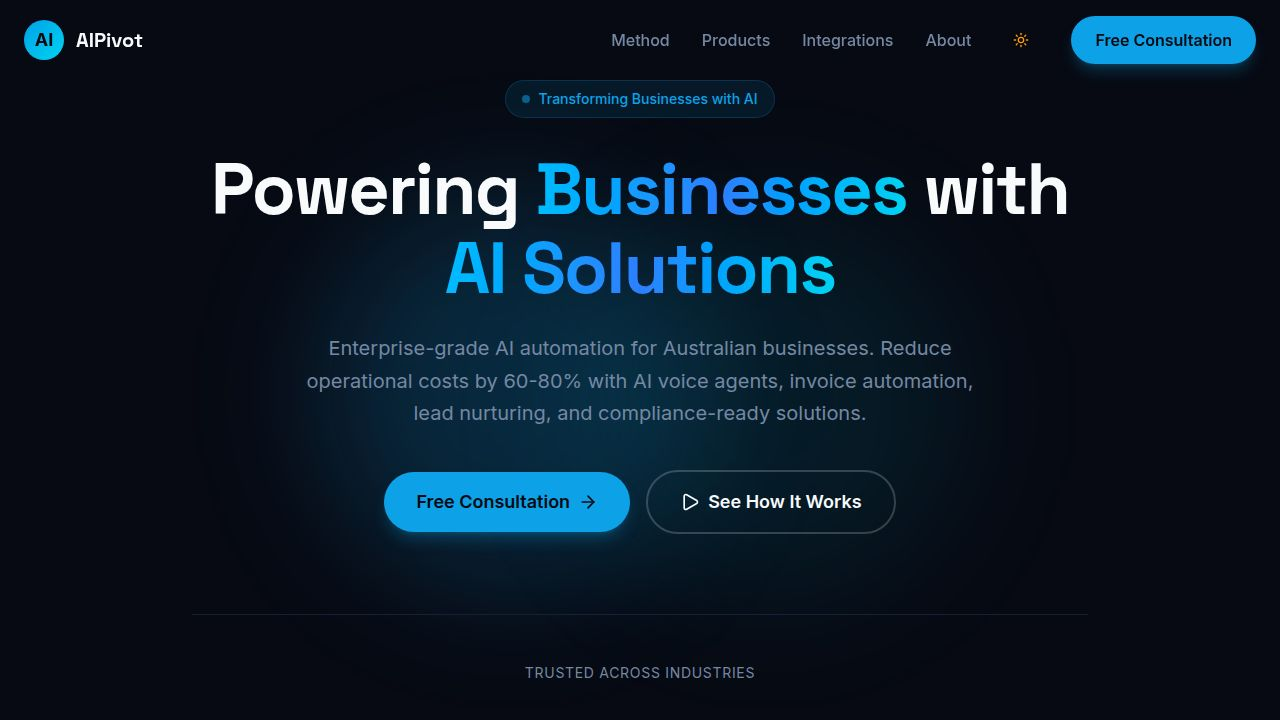
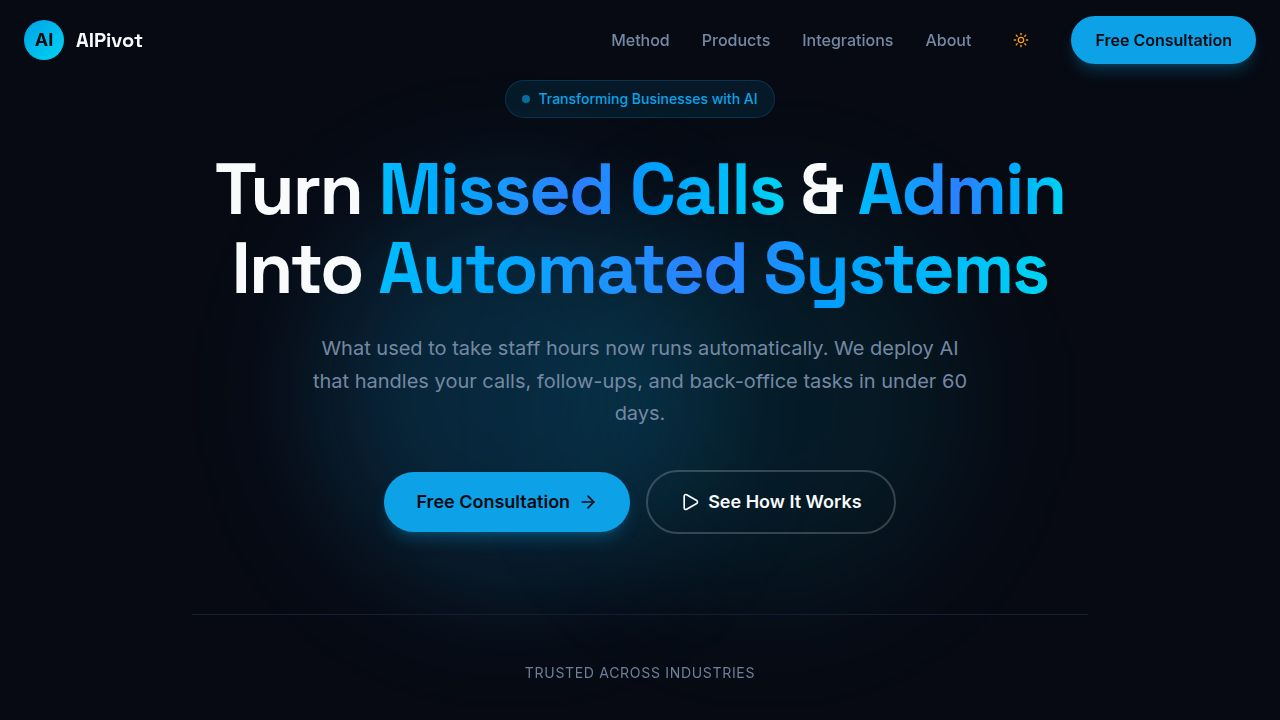
Improve website copy to highlight business transformation and automate tasks
Update meta tags, hero section, about section, contact section, and method section to reflect new messaging. Add Proof and Urgency sections.

Replit-Commit-Author: Agent
Replit-Commit-Session-Id: 616f7ec8-56b7-40ac-97c3-e25da8dbcfec
Replit-Commit-Checkpoint-Type: intermediate_checkpoint
Replit-Commit-Event-Id: bd99aacf-5318-4f4b-b167-25c7220fded0
Replit-Commit-Screenshot-Url: https://storage.googleapis.com/screenshot-production-us-central1/a4d2e7bf-6fef-4c84-ac98-2d1d1ffe8788/616f7ec8-56b7-40ac-97c3-e25da8dbcfec/9fGJEH8
Replit-Helium-Checkpoint-Created: true

Changed region(s): [[0.1562, 0.2139, 0.8438, 0.4278], [0.25, 0.4583, 0.75, 0.5806]]

diff --git a/client/src/components/sections/Proof.tsx b/client/src/components/sections/Proof.tsx
@@ -1,0 +1,134 @@
+import { motion } from "framer-motion";
+import { TrendingUp, Clock, PhoneCall, Building2 } from "lucide-react";
+
+const stats = [
+  {
+    icon: PhoneCall,
+    value: "12,000+",
+    label: "Calls handled monthly",
+    description: "Across client deployments"
+  },
+  {
+    icon: Clock,
+    value: "40hrs",
+    label: "Admin saved per week",
+    description: "Average per business"
+  },
+  {
+    icon: TrendingUp,
+    value: "90%",
+    label: "Reduction in errors",
+    description: "In automated processes"
+  },
+  {
+    icon: Building2,
+    value: "60 days",
+    label: "Average go-live time",
+    description: "From kickoff to deployment"
+  }
+];
+
+const caseStudies = [
+  {
+    industry: "Professional Services",
+    result: "Reduced admin workload by 35 hours per week",
+    detail: "Automated client intake, follow-ups, and appointment scheduling"
+  },
+  {
+    industry: "Real Estate Agency",
+    result: "Handling 400+ enquiries monthly without extra staff",
+    detail: "AI voice agent qualifying leads and booking inspections 24/7"
+  },
+  {
+    industry: "Healthcare Practice",
+    result: "Cut no-shows by 60% with automated reminders",
+    detail: "Integrated with existing practice management software"
+  }
+];
+
+const trustedSystems = [
+  "Salesforce", "HubSpot", "Zoho", "Google Workspace", "Microsoft 365", "Xero"
+];
+
+export function Proof() {
+  return (
+    <section className="py-24 bg-card" aria-labelledby="proof-heading">
+      <div className="container-main">
+        <motion.div 
+          className="text-center mb-16"
+          initial={{ opacity: 0, y: 20 }}
+          whileInView={{ opacity: 1, y: 0 }}
+          viewport={{ once: true }}
+        >
+          <h2 id="proof-heading" className="text-3xl sm:text-4xl lg:text-5xl font-bold text-foreground mb-4">
+            Real Results from Real Businesses
+          </h2>
+          <p className="text-xl text-muted-foreground max-w-2xl mx-auto">
+            Numbers from actual deployments across Australian businesses
+          </p>
+        </motion.div>
+
+        <div className="grid grid-cols-2 lg:grid-cols-4 gap-4 sm:gap-6 mb-16">
+          {stats.map((stat, i) => (
+            <motion.div
+              key={i}
+              className="p-6 rounded-2xl bg-background border border-border text-center"
+              initial={{ opacity: 0, y: 20 }}
+              whileInView={{ opacity: 1, y: 0 }}
+              viewport={{ once: true }}
+              transition={{ delay: i * 0.1 }}
+              data-testid={`stat-card-${i}`}
+            >
+              <stat.icon className="w-8 h-8 text-primary mx-auto mb-4" />
+              <div className="text-3xl sm:text-4xl font-bold gradient-text mb-2" data-testid={`stat-value-${i}`}>{stat.value}</div>
+              <div className="text-sm font-semibold text-foreground mb-1">{stat.label}</div>
+              <div className="text-xs text-muted-foreground">{stat.description}</div>
+            </motion.div>
+          ))}
+        </div>
+
+        <div className="grid md:grid-cols-3 gap-6 mb-16">
+          {caseStudies.map((study, i) => (
+            <motion.div
+              key={i}
+              className="p-6 rounded-2xl bg-background border border-border"
+              initial={{ opacity: 0, y: 20 }}
+              whileInView={{ opacity: 1, y: 0 }}
+              viewport={{ once: true }}
+              transition={{ delay: i * 0.1 }}
+              data-testid={`case-study-${i}`}
+            >
+              <div className="text-xs font-semibold text-primary uppercase tracking-wider mb-3" data-testid={`case-study-industry-${i}`}>
+                {study.industry}
+              </div>
+              <p className="text-lg font-bold text-foreground mb-3" data-testid={`case-study-result-${i}`}>
+                {study.result}
+              </p>
+              <p className="text-sm text-muted-foreground">
+                {study.detail}
+              </p>
+            </motion.div>
+          ))}
+        </div>
+
+        <motion.div
+          className="text-center"
+          initial={{ opacity: 0, y: 20 }}
+          whileInView={{ opacity: 1, y: 0 }}
+          viewport={{ once: true }}
+        >
+          <p className="text-sm text-muted-foreground mb-4">
+            Built on top of the systems businesses already trust
+          </p>
+          <div className="flex flex-wrap items-center justify-center gap-4 sm:gap-8">
+            {trustedSystems.map((system, i) => (
+              <span key={i} className="text-sm sm:text-base font-semibold text-foreground/60">
+                {system}
+              </span>
+            ))}
+          </div>
+        </motion.div>
+      </div>
+    </section>
+  );
+}

diff --git a/client/src/components/sections/About.tsx b/client/src/components/sections/About.tsx
@@ -1,5 +1,5 @@
 import { motion } from "framer-motion";
-import { CheckCircle2 } from "lucide-react";
+import { CheckCircle2, XCircle } from "lucide-react";
 
 const benefits = [
   "24/7 AI-powered customer engagement",
@@ -8,6 +8,12 @@ const benefits = [
   "Real-time analytics and insights",
   "Custom-trained on your business",
   "Dedicated support team"
+];
+
+const notForYou = [
+  "Early-stage businesses without defined workflows",
+  "Teams looking for a DIY chatbot tool",
+  "Businesses without existing systems to integrate"
 ];
 
 export function About() {
@@ -30,11 +36,9 @@ export function About() {
               Why Choose <span className="gradient-text">AIPivot</span>?
             </h2>
             <p className="text-xl text-muted-foreground mb-8 leading-relaxed" itemProp="description">
-              Australia's enterprise AI automation specialists. We deliver compliance-ready AI solutions 
-              that reduce operational costs by 60-80%. Our team builds AI voice agents, invoice automation, 
-              and lead nurturing systems that drive measurable business results.
+              We're not a software platform you log into. We're implementation specialists who build, deploy, and manage AI systems that work inside your business — integrated with the tools you already use.
             </p>
-            <div className="grid sm:grid-cols-2 gap-4">
+            <div className="grid sm:grid-cols-2 gap-4 mb-8">
               {benefits.map((benefit, i) => (
                 <div key={i} className="flex items-center gap-3">
                   <CheckCircle2 className="w-5 h-5 text-primary shrink-0" />
@@ -50,12 +54,24 @@ export function About() {
             whileInView={{ opacity: 1, x: 0 }}
             viewport={{ once: true }}
           >
-            <div className="aspect-square rounded-3xl bg-gradient-to-br from-primary/20 to-cyan-500/20 p-1">
-              <div className="w-full h-full rounded-3xl bg-background flex items-center justify-center">
-                <div className="text-center p-8">
-                  <div className="text-8xl font-bold gradient-text mb-4">AI</div>
-                  <div className="text-2xl font-bold text-foreground">Powered by Intelligence</div>
-                  <div className="text-muted-foreground mt-2">Built for Business</div>
+            <div className="rounded-3xl bg-gradient-to-br from-primary/20 to-cyan-500/20 p-1">
+              <div className="rounded-3xl bg-background p-8">
+                <h3 className="text-xl font-bold text-foreground mb-6">This is not for everyone</h3>
+                <p className="text-muted-foreground mb-6">
+                  We work best with established businesses that have real workflows to automate. If you're looking for a quick fix or DIY solution, we're probably not the right fit.
+                </p>
+                <div className="space-y-3">
+                  {notForYou.map((item, i) => (
+                    <div key={i} className="flex items-center gap-3" data-testid={`disqualifier-${i}`}>
+                      <XCircle className="w-5 h-5 text-muted-foreground shrink-0" />
+                      <span className="text-muted-foreground">{item}</span>
+                    </div>
+                  ))}
+                </div>
+                <div className="mt-6 pt-6 border-t border-border">
+                  <p className="text-sm text-foreground font-medium">
+                    We require existing business systems to integrate with (CRM, calendar, phone system, etc.)
+                  </p>
                 </div>
               </div>
             </div>

diff --git a/client/index.html b/client/index.html
@@ -4,8 +4,8 @@
     <meta charset="UTF-8" />
     <meta name="viewport" content="width=device-width, initial-scale=1.0, maximum-scale=5" />
     
-    <title>AIPivot | AI Automation Agency Australia | Enterprise Business Transformation</title>
-    <meta name="description" content="AIPivot delivers enterprise-grade AI automation for Australian businesses. Reduce operational costs by 60-80% with AI voice agents, invoice automation, lead nurturing, and compliance-ready AI solutions. Free consultation for operations directors and CFOs." />
+    <title>AIPivot | Turn Missed Calls & Admin Into Automated Systems | AI Automation Australia</title>
+    <meta name="description" content="What used to take staff hours now runs automatically. AIPivot deploys AI that handles your calls, follow-ups, and back-office tasks in under 60 days. Australian businesses reduce admin by 35+ hours per week." />
     <meta name="keywords" content="AI automation Australia, enterprise AI solutions, AI voice agents, invoice automation, business process automation, lead nurturing AI, compliance AI, AI receptionist, workflow automation, AI implementation Australia, Brisbane AI agency" />
     <meta name="author" content="AIPivot" />
     <meta name="robots" content="index, follow, max-image-preview:large, max-snippet:-1, max-video-preview:-1" />
@@ -16,8 +16,8 @@
     <meta name="geo.position" content="-27.4698;153.0251" />
     <meta name="ICBM" content="-27.4698, 153.0251" />
     
-    <meta property="og:title" content="AIPivot | AI Automation Agency Australia | Enterprise Business Transformation" />
-    <meta property="og:description" content="Reduce operational costs by 60-80% with enterprise-grade AI automation. AI voice agents, invoice automation, lead nurturing, and compliance-ready solutions for Australian businesses." />
+    <meta property="og:title" content="AIPivot | Turn Missed Calls & Admin Into Automated Systems" />
+    <meta property="og:description" content="What used to take staff hours now runs automatically. AI that handles your calls, follow-ups, and back-office tasks in under 60 days." />
     <meta property="og:type" content="website" />
     <meta property="og:url" content="https://aipivot.com.au/" />
     <meta property="og:site_name" content="AIPivot" />
@@ -30,8 +30,8 @@
     <meta name="twitter:card" content="summary_large_image" />
     <meta name="twitter:site" content="@replit" />
     <meta name="twitter:creator" content="@aipivot" />
-    <meta name="twitter:title" content="AIPivot | AI Automation Agency Australia" />
-    <meta name="twitter:description" content="Enterprise-grade AI automation for Australian businesses. AI voice agents, invoice automation, lead nurturing. Reduce costs by 60-80%." />
+    <meta name="twitter:title" content="AIPivot | Turn Missed Calls & Admin Into Automated Systems" />
+    <meta name="twitter:description" content="What used to take staff hours now runs automatically. AI that handles your calls, follow-ups, and back-office tasks in under 60 days." />
     <meta name="twitter:image" content="https://aipivot.com.au/opengraph.jpg" />
     
     <meta name="format-detection" content="telephone=no" />

diff --git a/client/src/components/sections/Contact.tsx b/client/src/components/sections/Contact.tsx
@@ -85,11 +85,31 @@ export function Contact() {
             viewport={{ once: true }}
           >
             <h2 id="contact-heading" className="text-3xl sm:text-4xl lg:text-5xl font-bold text-foreground mb-4">
-              Book a Free Consultation
+              Book Your Strategy Call
             </h2>
-            <p className="text-xl text-muted-foreground">
-              Schedule a meeting with our AI specialists to discuss how AI automation can reduce your operational costs by 60-80%
+            <p className="text-xl text-muted-foreground mb-6">
+              A 30-minute call to map out your automation opportunities
             </p>
+            <div className="bg-background/50 rounded-xl p-6 border border-border text-left max-w-md mx-auto" data-testid="contact-process-info">
+              <p className="text-sm font-semibold text-foreground mb-3">What happens on the call:</p>
+              <ul className="space-y-2 text-sm text-muted-foreground">
+                <li className="flex items-start gap-2" data-testid="call-step-0">
+                  <span className="text-primary mt-0.5">✓</span>
+                  <span>We review your current workflows and pain points</span>
+                </li>
+                <li className="flex items-start gap-2" data-testid="call-step-1">
+                  <span className="text-primary mt-0.5">✓</span>
+                  <span>You get a clear picture of what can be automated</span>
+                </li>
+                <li className="flex items-start gap-2" data-testid="call-step-2">
+                  <span className="text-primary mt-0.5">✓</span>
+                  <span>We provide a rough timeline and investment range</span>
+                </li>
+              </ul>
+              <p className="text-xs text-muted-foreground mt-4 pt-3 border-t border-border" data-testid="no-sell-guarantee">
+                No hard sell. If we're not a fit, we'll tell you.
+              </p>
+            </div>
           </motion.div>
 
           <motion.div

diff --git a/client/src/components/sections/Urgency.tsx b/client/src/components/sections/Urgency.tsx
@@ -1,0 +1,46 @@
+import { motion } from "framer-motion";
+import { TrendingUp, Clock, Users } from "lucide-react";
+
+export function Urgency() {
+  return (
+    <section className="py-16 bg-primary/5 border-y border-primary/20">
+      <div className="container-main">
+        <motion.div
+          className="max-w-4xl mx-auto text-center"
+          initial={{ opacity: 0, y: 20 }}
+          whileInView={{ opacity: 1, y: 0 }}
+          viewport={{ once: true }}
+        >
+          <h2 className="text-2xl sm:text-3xl font-bold text-foreground mb-6">
+            The Cost of Manual Processes Compounds Daily
+          </h2>
+          
+          <div className="grid sm:grid-cols-3 gap-6 mb-8">
+            <div className="flex flex-col items-center p-4" data-testid="urgency-point-0">
+              <Clock className="w-8 h-8 text-primary mb-3" />
+              <p className="text-sm text-muted-foreground">
+                Every missed call is a lost opportunity your competitors are capturing
+              </p>
+            </div>
+            <div className="flex flex-col items-center p-4" data-testid="urgency-point-1">
+              <Users className="w-8 h-8 text-primary mb-3" />
+              <p className="text-sm text-muted-foreground">
+                Staff spending hours on admin that AI can handle in seconds
+              </p>
+            </div>
+            <div className="flex flex-col items-center p-4" data-testid="urgency-point-2">
+              <TrendingUp className="w-8 h-8 text-primary mb-3" />
+              <p className="text-sm text-muted-foreground">
+                Your competitors are already automating — the gap widens every month
+              </p>
+            </div>
+          </div>
+
+          <p className="text-lg text-foreground font-medium">
+            Businesses that automate now will have a 12-18 month head start on those that wait.
+          </p>
+        </motion.div>
+      </div>
+    </section>
+  );
+}

diff --git a/client/src/components/sections/Hero.tsx b/client/src/components/sections/Hero.tsx
@@ -41,14 +41,16 @@ export function Hero() {
               className="text-4xl sm:text-5xl lg:text-7xl font-extrabold leading-[1.1] mb-6"
               itemProp="headline"
             >
-              <span className="text-foreground">Powering </span>
-              <span className="gradient-text">Businesses</span>
-              <span className="text-foreground"> with </span>
-              <span className="gradient-text">AI Solutions</span>
+              <span className="text-foreground">Turn </span>
+              <span className="gradient-text">Missed Calls</span>
+              <span className="text-foreground"> & </span>
+              <span className="gradient-text">Admin</span>
+              <span className="text-foreground"> Into </span>
+              <span className="gradient-text">Automated Systems</span>
             </h1>
 
             <p className="text-lg sm:text-xl text-muted-foreground max-w-2xl mx-auto mb-8 sm:mb-10 leading-relaxed px-4 sm:px-0" itemProp="text">
-              Enterprise-grade AI automation for Australian businesses. Reduce operational costs by 60-80% with AI voice agents, invoice automation, lead nurturing, and compliance-ready solutions.
+              What used to take staff hours now runs automatically. We deploy AI that handles your calls, follow-ups, and back-office tasks in under 60 days.
             </p>
 
             <div className="flex flex-col sm:flex-row items-center justify-center gap-3 sm:gap-4 px-4 sm:px-0">

diff --git a/client/src/components/sections/Method.tsx b/client/src/components/sections/Method.tsx
@@ -42,11 +42,17 @@ export function Method() {
           whileInView={{ opacity: 1, y: 0 }}
           viewport={{ once: true }}
         >
+          <div className="inline-flex items-center gap-2 px-4 py-2 rounded-full bg-primary/10 border border-primary/20 text-primary text-sm font-medium mb-6">
+            Our Proven Framework
+          </div>
           <h2 id="method-heading" className="text-3xl sm:text-4xl lg:text-5xl font-bold text-foreground mb-4">
-            AI Implementation Method
+            The AIPivot Deployment Framework
           </h2>
-          <p className="text-xl text-muted-foreground max-w-2xl mx-auto">
-            A proven 4-step process to transform your business operations with AI in 6-12 weeks
+          <p className="text-xl text-muted-foreground max-w-3xl mx-auto mb-6">
+            We connect your existing systems, train AI on your real workflows, and deploy automations that handle calls, messages, and admin — without hiring staff.
+          </p>
+          <p className="text-lg text-primary font-medium">
+            Live in 6-8 weeks. Full ROI typically within 90 days.
           </p>
         </motion.div>
 

diff --git a/client/src/pages/Home.tsx b/client/src/pages/Home.tsx
@@ -1,10 +1,12 @@
 import { Navbar } from "@/components/layout/Navbar";
 import { Footer } from "@/components/layout/Footer";
 import { Hero } from "@/components/sections/Hero";
+import { Proof } from "@/components/sections/Proof";
 import { Method } from "@/components/sections/Method";
 import { Services } from "@/components/sections/Services";
 import { Integrations } from "@/components/sections/Integrations";
 import { About } from "@/components/sections/About";
+import { Urgency } from "@/components/sections/Urgency";
 import { FAQ } from "@/components/sections/FAQ";
 import { Contact } from "@/components/sections/Contact";
 
@@ -15,10 +17,12 @@ export default function Home() {
       <main role="main" aria-label="Main content">
         <article itemScope itemType="https://schema.org/WebPage">
           <Hero />
+          <Proof />
           <Method />
           <Services />
           <Integrations />
           <About />
+          <Urgency />
           <FAQ />
           <Contact />
         </article>
